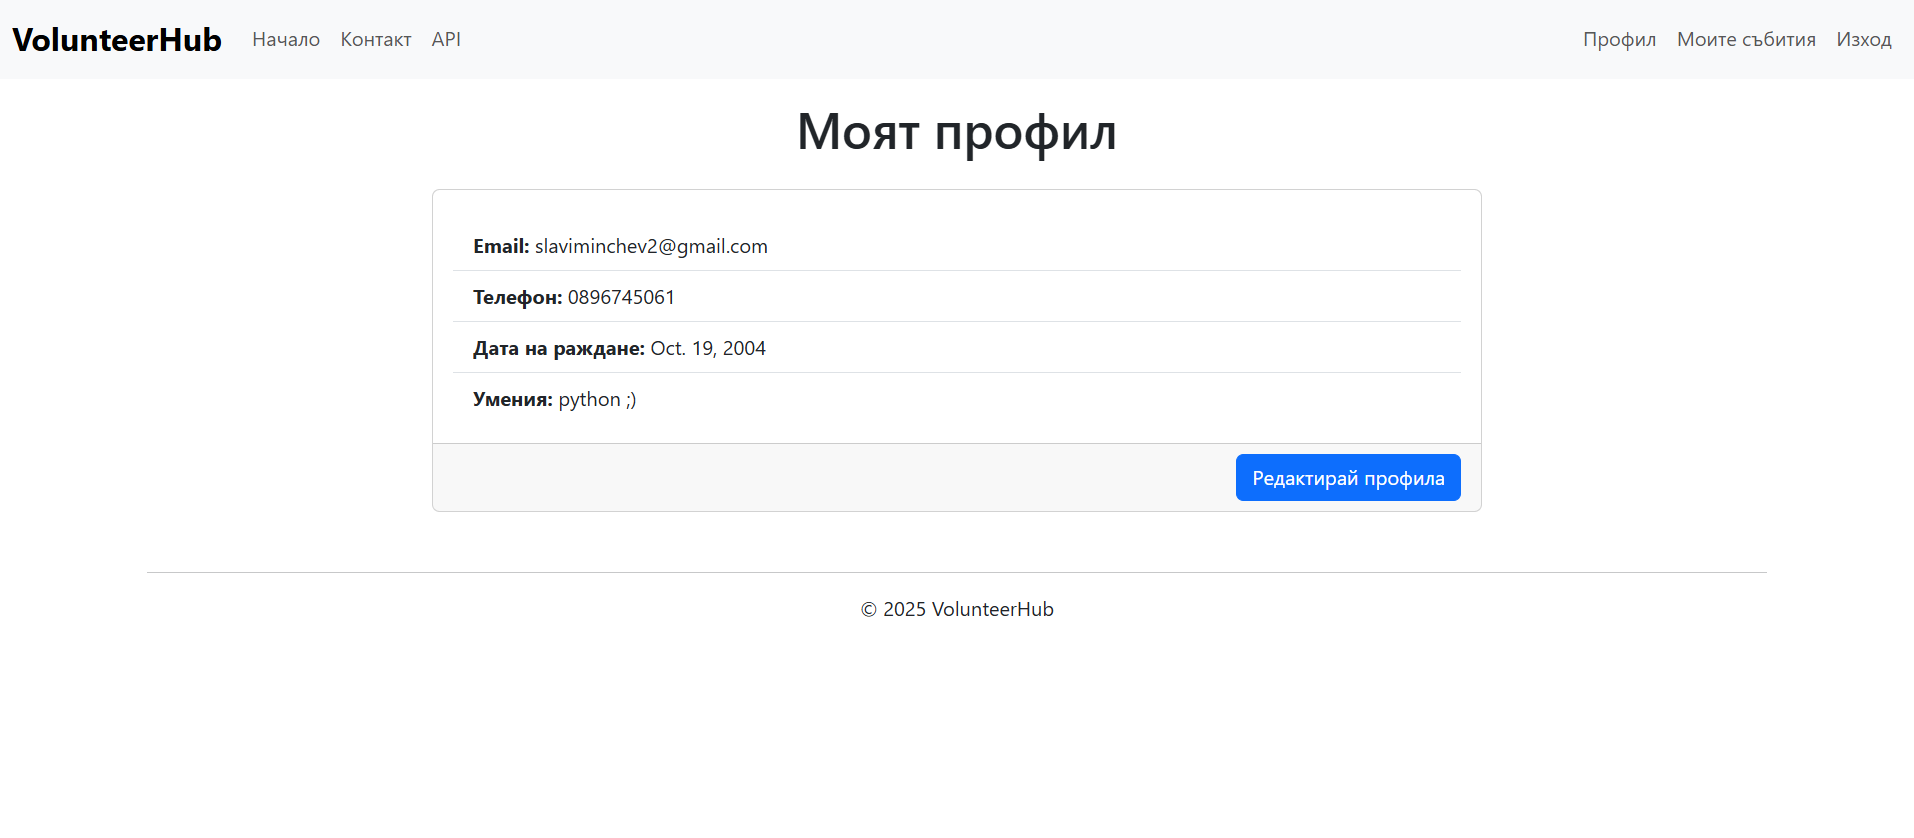
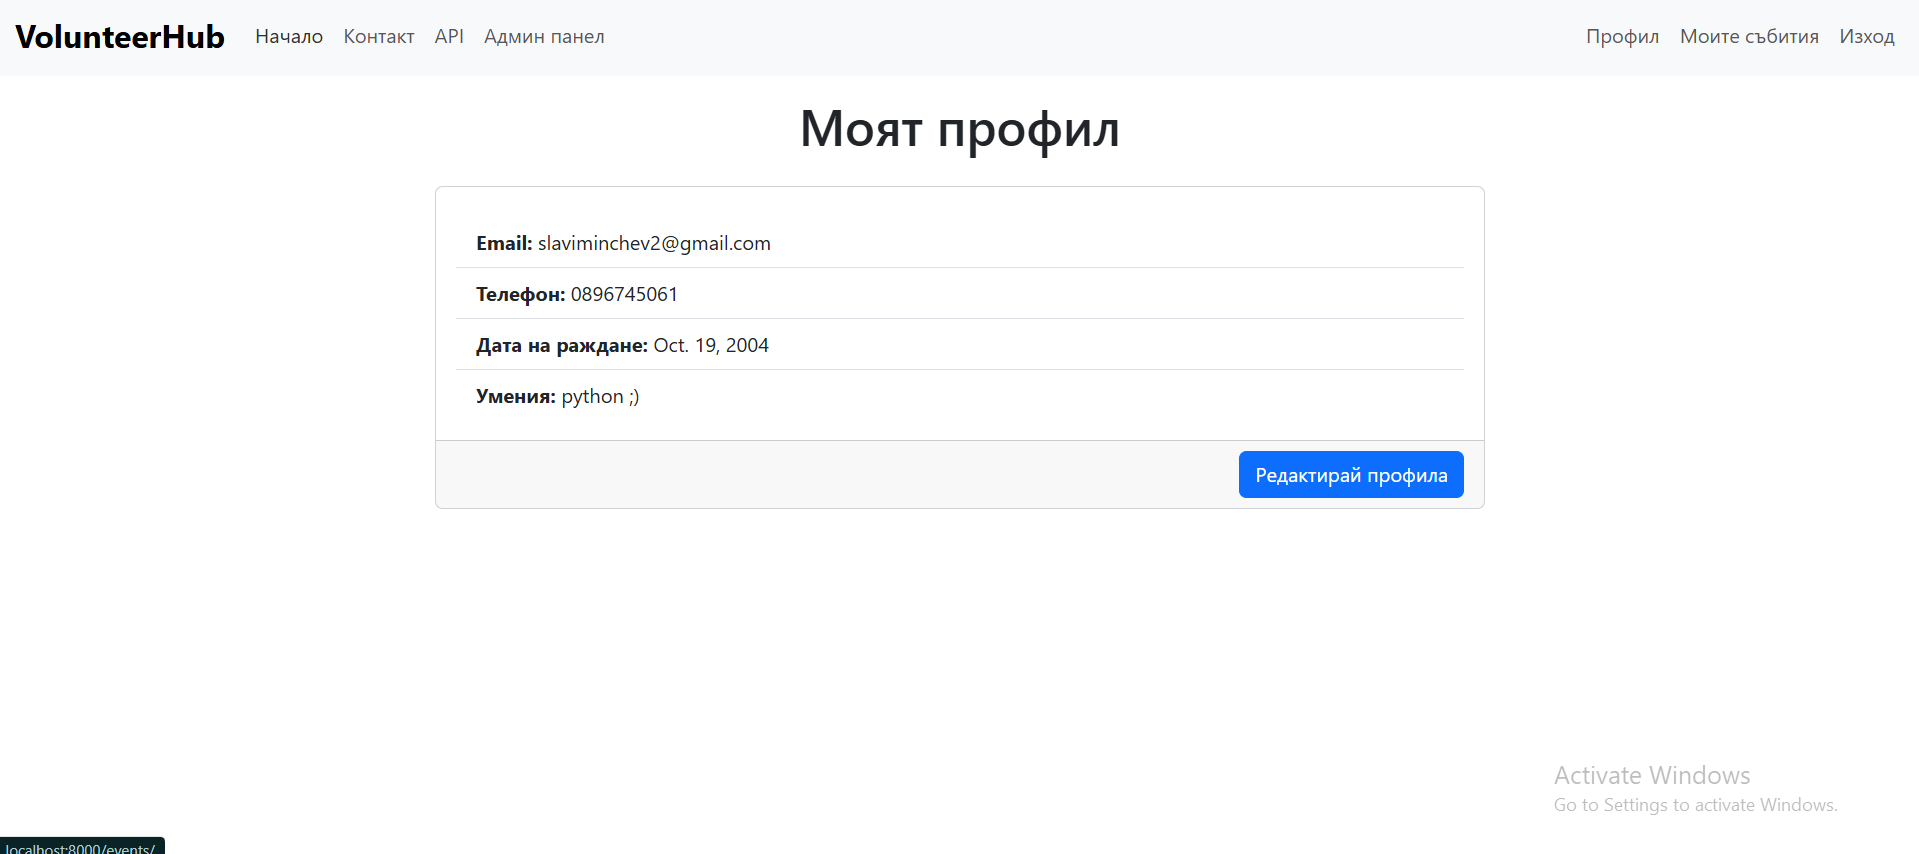
fix: add error logging middleware and minor fixes

diff --git a/templates/base.html b/templates/base.html
@@ -33,6 +33,9 @@
           <li class="nav-item">
             <a class="nav-link" href="/api/events/" target="_blank">API</a>
           </li>
+          <li class="nav-item">
+            <a class="nav-link" href="{% url 'admin:index' %}" target="_blank">Админ панел</a>
+          </li>
           {% endif %}
         </ul>
         <ul class="navbar-nav">
@@ -75,14 +78,4 @@
 
   <main class="container">
     {% block content %}{% endblock %}
-  </main>
-
-  <footer class="container text-center mt-4 mb-4">
-    <hr>
-    <p>&copy; 2025 VolunteerHub</p>
-  </footer>
-
-  <script src="https://cdn.jsdelivr.net/npm/bootstrap@5.3.0/dist/js/bootstrap.bundle.min.js"></script>
-  <script src="{% static 'js/main.js' %}"></script>
-</body>
-</html>
+  </main

diff --git a/accounts/signals.py b/accounts/signals.py
@@ -1,8 +1,8 @@
+
 from django.contrib.auth.models import User
 from django.db.models.signals import post_save
 from django.dispatch import receiver
 from .models import VolunteerProfile
-
 
 @receiver(post_save, sender=User)
 def create_profile(sender, instance, created, **kwargs):
@@ -10,6 +10,3 @@ def create_profile(sender, instance, created, **kwargs):
         VolunteerProfile.objects.create(user=instance)
 
 
-@receiver(post_save, sender=User)
-def save_profile(sender, instance, **kwargs):
-    instance.profile.save()

diff --git a/accounts/views.py b/accounts/views.py
@@ -13,8 +13,6 @@ class RegisterView(CreateView):
     success_url = reverse_lazy("accounts:login")
 
     def form_valid(self, form):
-        user = form.save()
-        create_profile_and_add_staff(user)
         messages.success(self.request, "Registration successful! You can now log in.")
         return super().form_valid(form)
 
